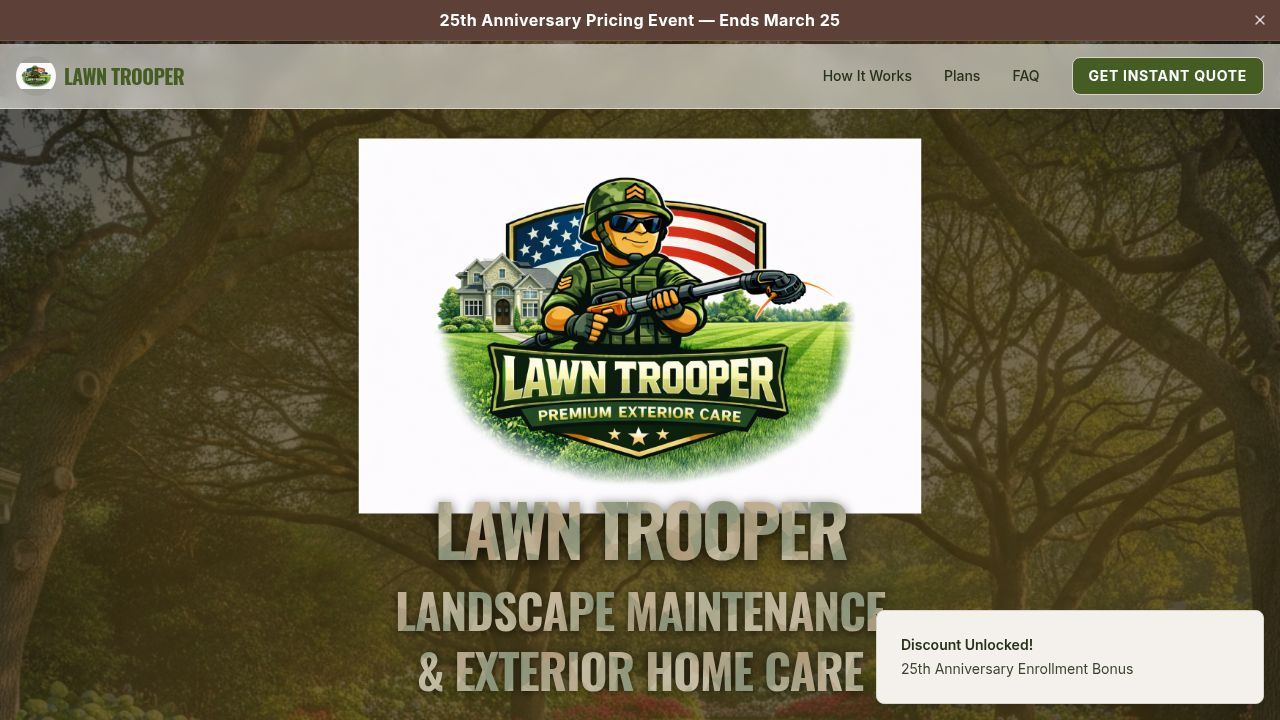
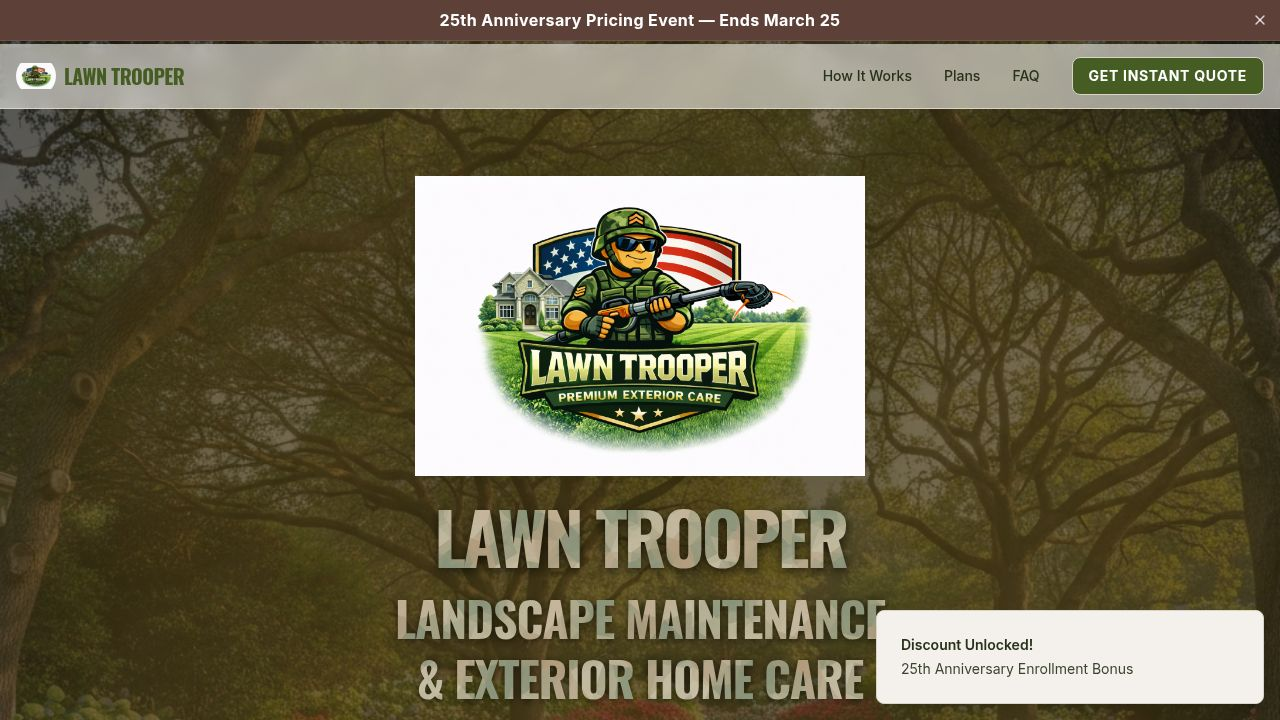
Update contact information and service details across the application
Updates contact email addresses from 'lawntrooperllc@gmail.com' to 'John@lawn-trooper.com' in multiple client-side components and server-side email configurations. Adjusts service plan details in `MultiStepQuoteWizard.tsx` and `plans.ts`, and updates the `replit.md` description to reflect these changes and new pricing details. Modifies the server's host binding from '127.0.0.1' to '0.0.0.0' in `server/index.ts` for improved workflow detection. Also updates image handling in `home.tsx` and the `opengraph.jpg` file.

Replit-Commit-Author: Agent
Replit-Commit-Session-Id: 95b4fb88-1a1b-43ec-b2f9-5c444428cc16
Replit-Commit-Checkpoint-Type: full_checkpoint
Replit-Commit-Event-Id: 54d1be54-78c4-4f97-9c6f-4afa54e8408e
Replit-Commit-Screenshot-Url: https://storage.googleapis.com/screenshot-production-us-central1/272d6f3a-6d6e-4d82-9048-783487746b88/95b4fb88-1a1b-43ec-b2f9-5c444428cc16/OOtHYdQ
Replit-Helium-Checkpoint-Created: true

diff --git a/client/src/components/MultiStepQuoteWizard.tsx b/client/src/components/MultiStepQuoteWizard.tsx
@@ -740,25 +740,25 @@ export default function MultiStepQuoteWizard({ onClose, isModal = false }: Multi
                           <td className="py-2 px-2 text-center font-bold text-accent">Weekly</td>
                         </tr>
                         <tr className="border-b border-border/50">
-                          <td className="py-2 pr-2 text-muted-foreground">Weed Control</td>
+                          <td className="py-2 pr-2 text-muted-foreground">Turf Defense</td>
                           <td className="py-2 px-2 text-center">2 Apps</td>
-                          <td className="py-2 px-2 text-center font-medium text-primary">4 Apps</td>
-                          <td className="py-2 px-2 text-center font-bold text-accent">6 Apps</td>
+                          <td className="py-2 px-2 text-center font-medium text-primary">5 Apps</td>
+                          <td className="py-2 px-2 text-center font-bold text-accent">7 Apps</td>
                         </tr>
                         <tr className="border-b border-border/50">
-                          <td className="py-2 pr-2 text-muted-foreground">Flower Bed Weed Control</td>
-                          <td className="py-2 px-2 text-center">Included</td>
-                          <td className="py-2 px-2 text-center font-medium text-primary">Included</td>
-                          <td className="py-2 px-2 text-center font-bold text-accent">Included</td>
+                          <td className="py-2 pr-2 text-muted-foreground">Bed Weed Control</td>
+                          <td className="py-2 px-2 text-center text-muted-foreground">—</td>
+                          <td className="py-2 px-2 text-center font-medium text-primary">Monthly</td>
+                          <td className="py-2 px-2 text-center font-bold text-accent">Monthly</td>
                         </tr>
                         <tr className="border-b border-border/50">
-                          <td className="py-2 pr-2 text-muted-foreground">Bush Trimming</td>
-                          <td className="py-2 px-2 text-center">1x/Year</td>
-                          <td className="py-2 px-2 text-center">2x/Year</td>
-                          <td className="py-2 px-2 text-center font-bold text-accent">3x/Year</td>
+                          <td className="py-2 pr-2 text-muted-foreground">Landscape Allowance™</td>
+                          <td className="py-2 px-2 text-center text-muted-foreground">—</td>
+                          <td className="py-2 px-2 text-center font-medium text-primary">Seasonal Refresh</td>
+                          <td className="py-2 px-2 text-center font-bold text-accent">Premier</td>
                         </tr>
                         <tr>
-                          <td className="py-2 pr-2 text-muted-foreground">Add-ons Included</td>
+                          <td className="py-2 pr-2 text-muted-foreground">Upgrades Included</td>
                           <td className="py-2 px-2 text-center">{tableBasicAllowance.basic + tableBasicAllowance.premium}</td>
                           <td className="py-2 px-2 text-center font-medium text-primary">{tablePremiumAllowance.basic + tablePremiumAllowance.premium}</td>
                           <td className="py-2 px-2 text-center font-bold text-accent">{tableExecutiveAllowance.basic + tableExecutiveAllowance.premium}</td>

diff --git a/client/src/pages/home.tsx b/client/src/pages/home.tsx
@@ -185,7 +185,7 @@ export default function LandingPage() {
       >
         <div className="container mx-auto px-4 h-16 flex items-center justify-between">
           <div className="flex items-center gap-2 cursor-pointer" onClick={() => window.scrollTo({ top: 0, behavior: 'smooth' })}>
-            <img src={mascotLogo} alt="Lawn Trooper" className="h-10 w-10 object-contain rounded-full bg-primary/10" />
+            <img src={mascotLogo} alt="Lawn Trooper" className="h-10 w-10 object-contain rounded-full" />
             <span className="font-heading font-bold text-xl tracking-tight text-primary">LAWN TROOPER</span>
           </div>
 
@@ -246,7 +246,7 @@ export default function LandingPage() {
             className="mb-8 relative w-full max-w-4xl"
           >
             <div className="absolute inset-0 bg-accent/20 blur-3xl rounded-full transform scale-150 pointer-events-none"></div>
-            <img src={mascotLogo} alt="Cartoon lawn-care professional holding a weed trimmer" className="w-full object-contain relative z-10 drop-shadow-2xl max-h-[300px] mb-4 scale-125" />
+            <img src={mascotLogo} alt="Cartoon lawn-care professional holding a weed trimmer" className="w-full object-contain relative z-10 drop-shadow-2xl max-h-[300px] mb-6" />
             
             {/* Big Intimidating Camo Banner */}
             <div className="mt-4 relative z-20 w-full">
@@ -800,7 +800,7 @@ export default function LandingPage() {
             </li>
           </ul>
           <Button
-            onClick={() => window.location.href = "mailto:lawntrooperllc@gmail.com?subject=Neighbor%20Referral%20Program"}
+            onClick={() => window.location.href = "mailto:John@lawn-trooper.com?subject=Neighbor%20Referral%20Program"}
             className="bg-primary hover:bg-primary/90 text-white font-bold uppercase tracking-wider"
           >
             Refer a Neighbor
@@ -986,7 +986,7 @@ export default function LandingPage() {
               <div className="space-y-4 text-primary-foreground/80">
                 <div className="flex items-center gap-3 mt-6">
                   <Mail className="w-5 h-5 shrink-0 text-accent" />
-                  <a href="mailto:lawntrooperllc@gmail.com" className="hover:text-white transition-colors">lawntrooperllc@gmail.com</a>
+                  <a href="mailto:John@lawn-trooper.com" className="hover:text-white transition-colors">John@lawn-trooper.com</a>
                 </div>
               </div>
             </div>

diff --git a/server/email.ts b/server/email.ts
@@ -133,7 +133,7 @@ export async function sendQuoteEmails(data: QuoteRequestData) {
 
   const businessEmail = {
     from: fromEmail,
-    to: 'jclaxtonlandscapes@gmail.com',
+    to: 'John@lawn-trooper.com',
     subject: `New Quote Request from ${data.name} - ${planName}${hasPhotos ? ' (with photos)' : ''}`,
     html: `
       <h2>New Quote Request</h2>
@@ -267,7 +267,7 @@ export async function sendLeadEmails(data: LeadEmailData) {
 
   const businessEmail = {
     from: fromEmail,
-    to: 'jclaxtonlandscapes@gmail.com',
+    to: 'John@lawn-trooper.com',
     subject: `New Lead from Quote Wizard: ${data.name} - ${planName}`,
     html: `
       <h2>New Lead Captured</h2>

diff --git a/client/src/data/plans.ts b/client/src/data/plans.ts
@@ -6,10 +6,10 @@ export const PROMO_CONFIG = {
 
 // Anniversary add-on bonus (limited-time event through cutoffDate):
 // - Basic and Premium: +1 included Basic add-on
-// - Executive: +1 included Premium add-on
+// - Executive: no additional bonus (base already includes 3 Premium)
 export const ANNIVERSARY_ADDON_BONUS = {
   basicNonExecutive: 1,
-  executivePremium: 1,
+  executivePremium: 0,
 };
 
 export const GLOBAL_CONSTANTS = {

diff --git a/server/index.ts b/server/index.ts
@@ -89,7 +89,7 @@ app.use((req, res, next) => {
   // this serves both the API and the client.
   // It is the only port that is not firewalled.
   const port = parseInt(process.env.PORT || "5000", 10);
-  const host = process.env.NODE_ENV === "development" ? "127.0.0.1" : "0.0.0.0";
+  const host = "0.0.0.0";
   httpServer.listen(
     {
       port,

diff --git a/client/src/data/content.ts b/client/src/data/content.ts
@@ -149,7 +149,7 @@ export const TRUST_BAR = {
 };
 
 export const FOOTER_CONTENT = {
-  email: "lawntrooperllc@gmail.com",
+  email: "John@lawn-trooper.com",
   phone: "(256) 555-0000",
   serviceArea: "Serving Athens, Huntsville, Madison, Decatur, and all of North Alabama",
 };

diff --git a/client/src/components/MissionAccomplished.tsx b/client/src/components/MissionAccomplished.tsx
@@ -143,7 +143,7 @@ ${'='.repeat(50)}
 
 ${PDF_QUOTE_CONFIG.footerText}
 
-Contact: info@lawntrooper.com | (256) 555-LAWN
+Contact: John@lawn-trooper.com | (256) 555-LAWN
     `.trim();
 
     const blob = new Blob([quoteContent], { type: 'text/plain' });

diff --git a/replit.md b/replit.md
@@ -1,7 +1,7 @@
 # Lawn Trooper Website
 
 ## Overview
-Lawn Trooper is a subscription-based residential lawn care service with a military-inspired brand. The website acts as a landing page and quote request system, aiming to convert visitors into customers. It features instant pricing calculations, tiered service plans (Basic Patrol, Premium Patrol, Executive Command), an optional Executive+ upgrade (+$99/mo), Landscape Allowance™ tiers, upgrade conversion (2 Basic → 1 Premium on all plans), and a promotional countdown timer. The project's ambition is to create a streamlined, mobile-first user experience for lead generation, incorporating gamification and a robust promotions engine to maximize customer acquisition and retention.
+Lawn Trooper is a subscription-based residential lawn care service with a military-inspired brand. The website acts as a landing page and quote request system, aiming to convert visitors into customers. It features instant pricing calculations, tiered service plans (Basic Patrol $169, Premium Patrol $299, Executive Command $399), an optional Executive+ upgrade (+$99/mo), Landscape Allowance™ tiers (no dollar values exposed publicly), upgrade conversion (2 Basic → 1 Premium on all plans), and a promotional countdown timer (25th Anniversary Sale through March 25, 2026). The company email is John@lawn-trooper.com. The project's ambition is to create a streamlined, mobile-first user experience for lead generation, incorporating gamification and a robust promotions engine to maximize customer acquisition and retention.
 
 ## User Preferences
 Preferred communication style: Simple, everyday language.
